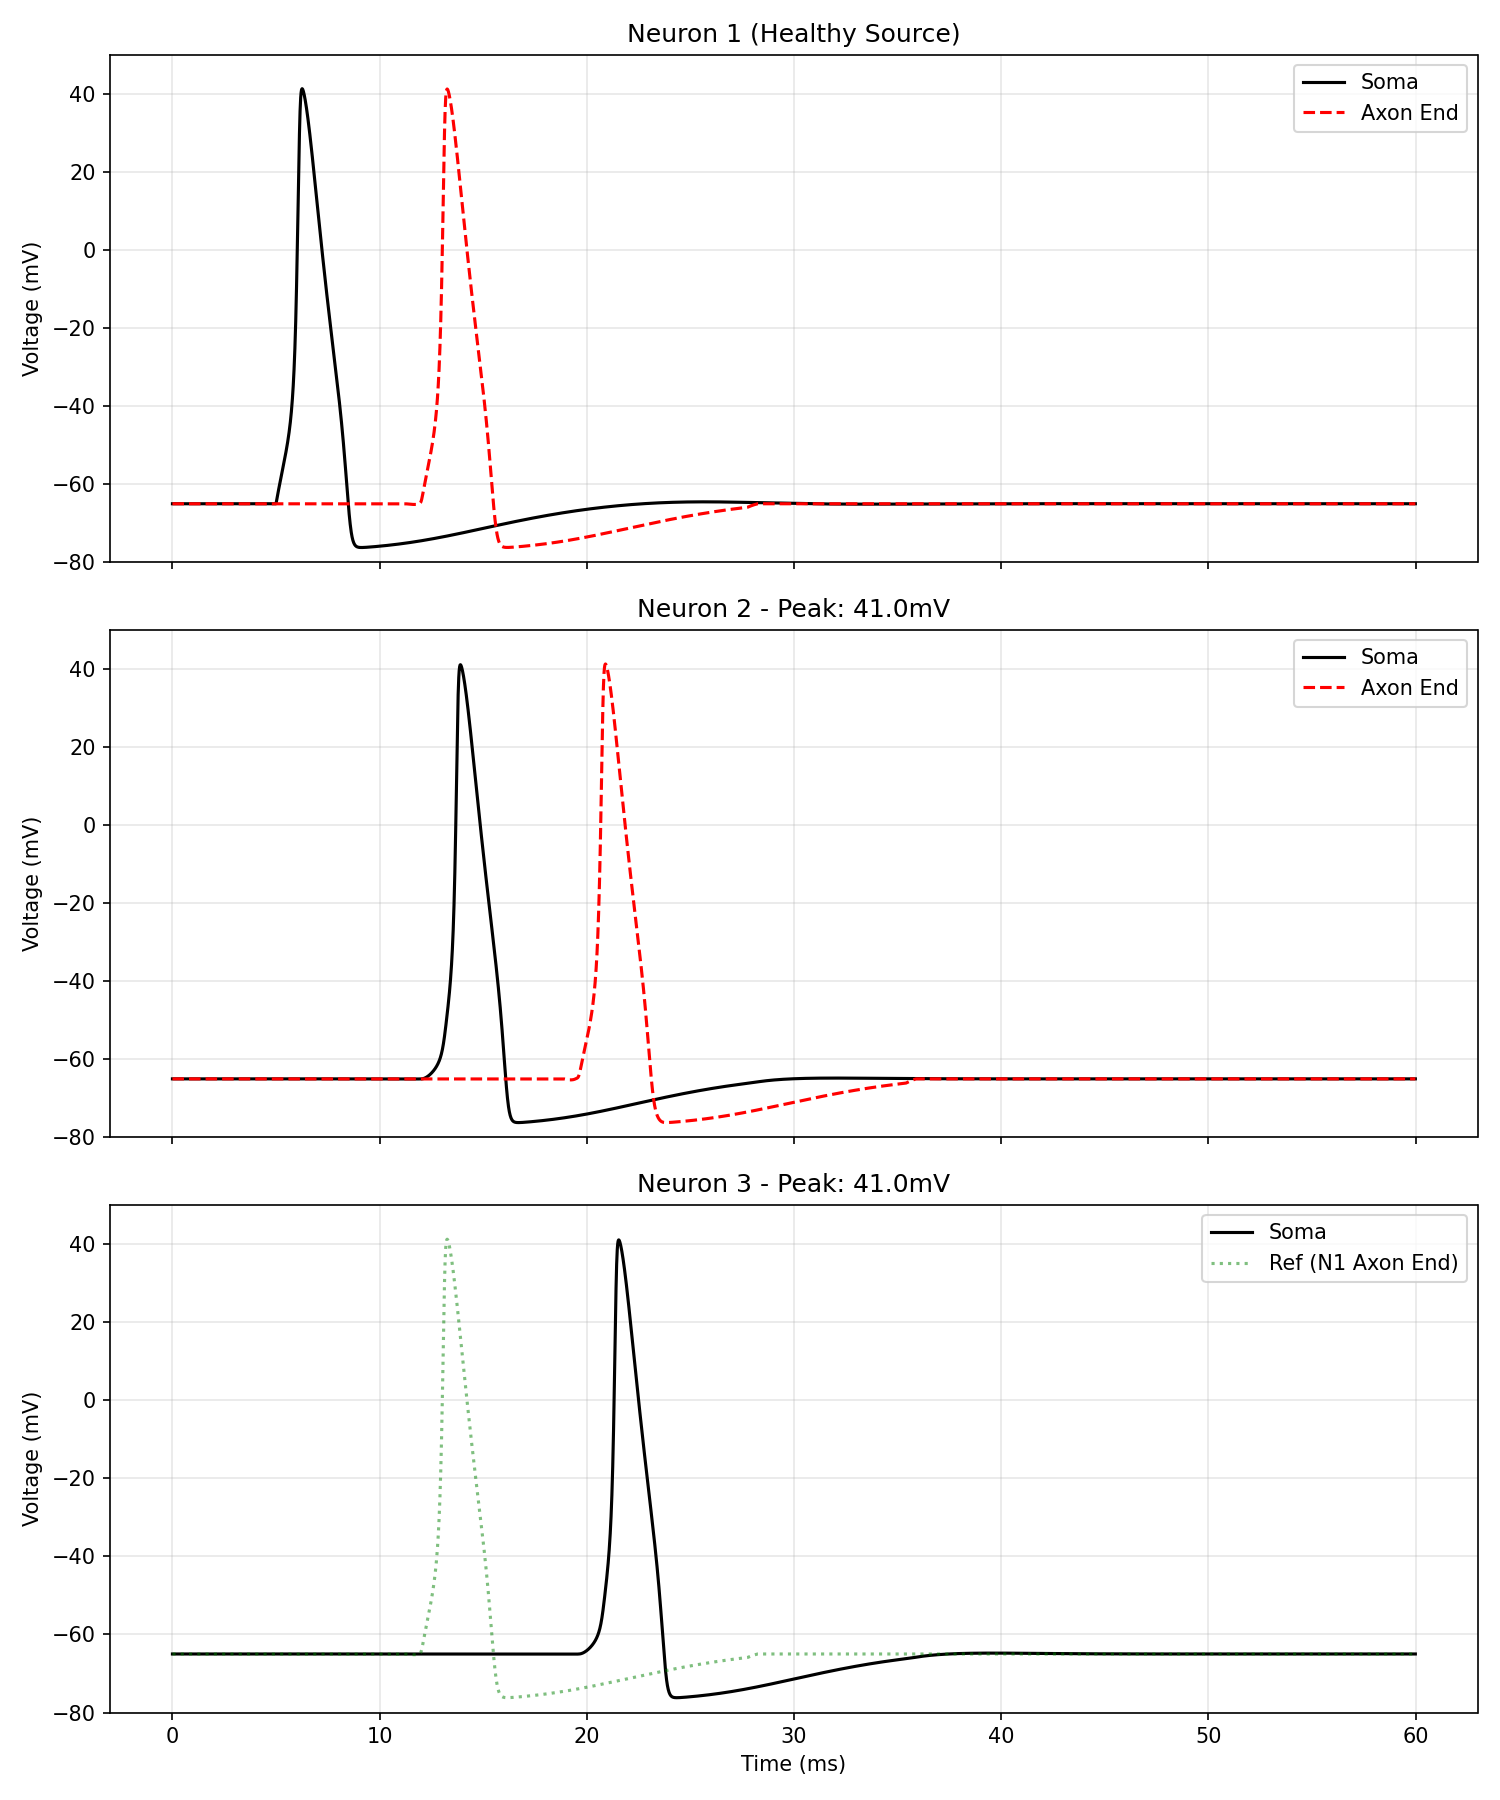
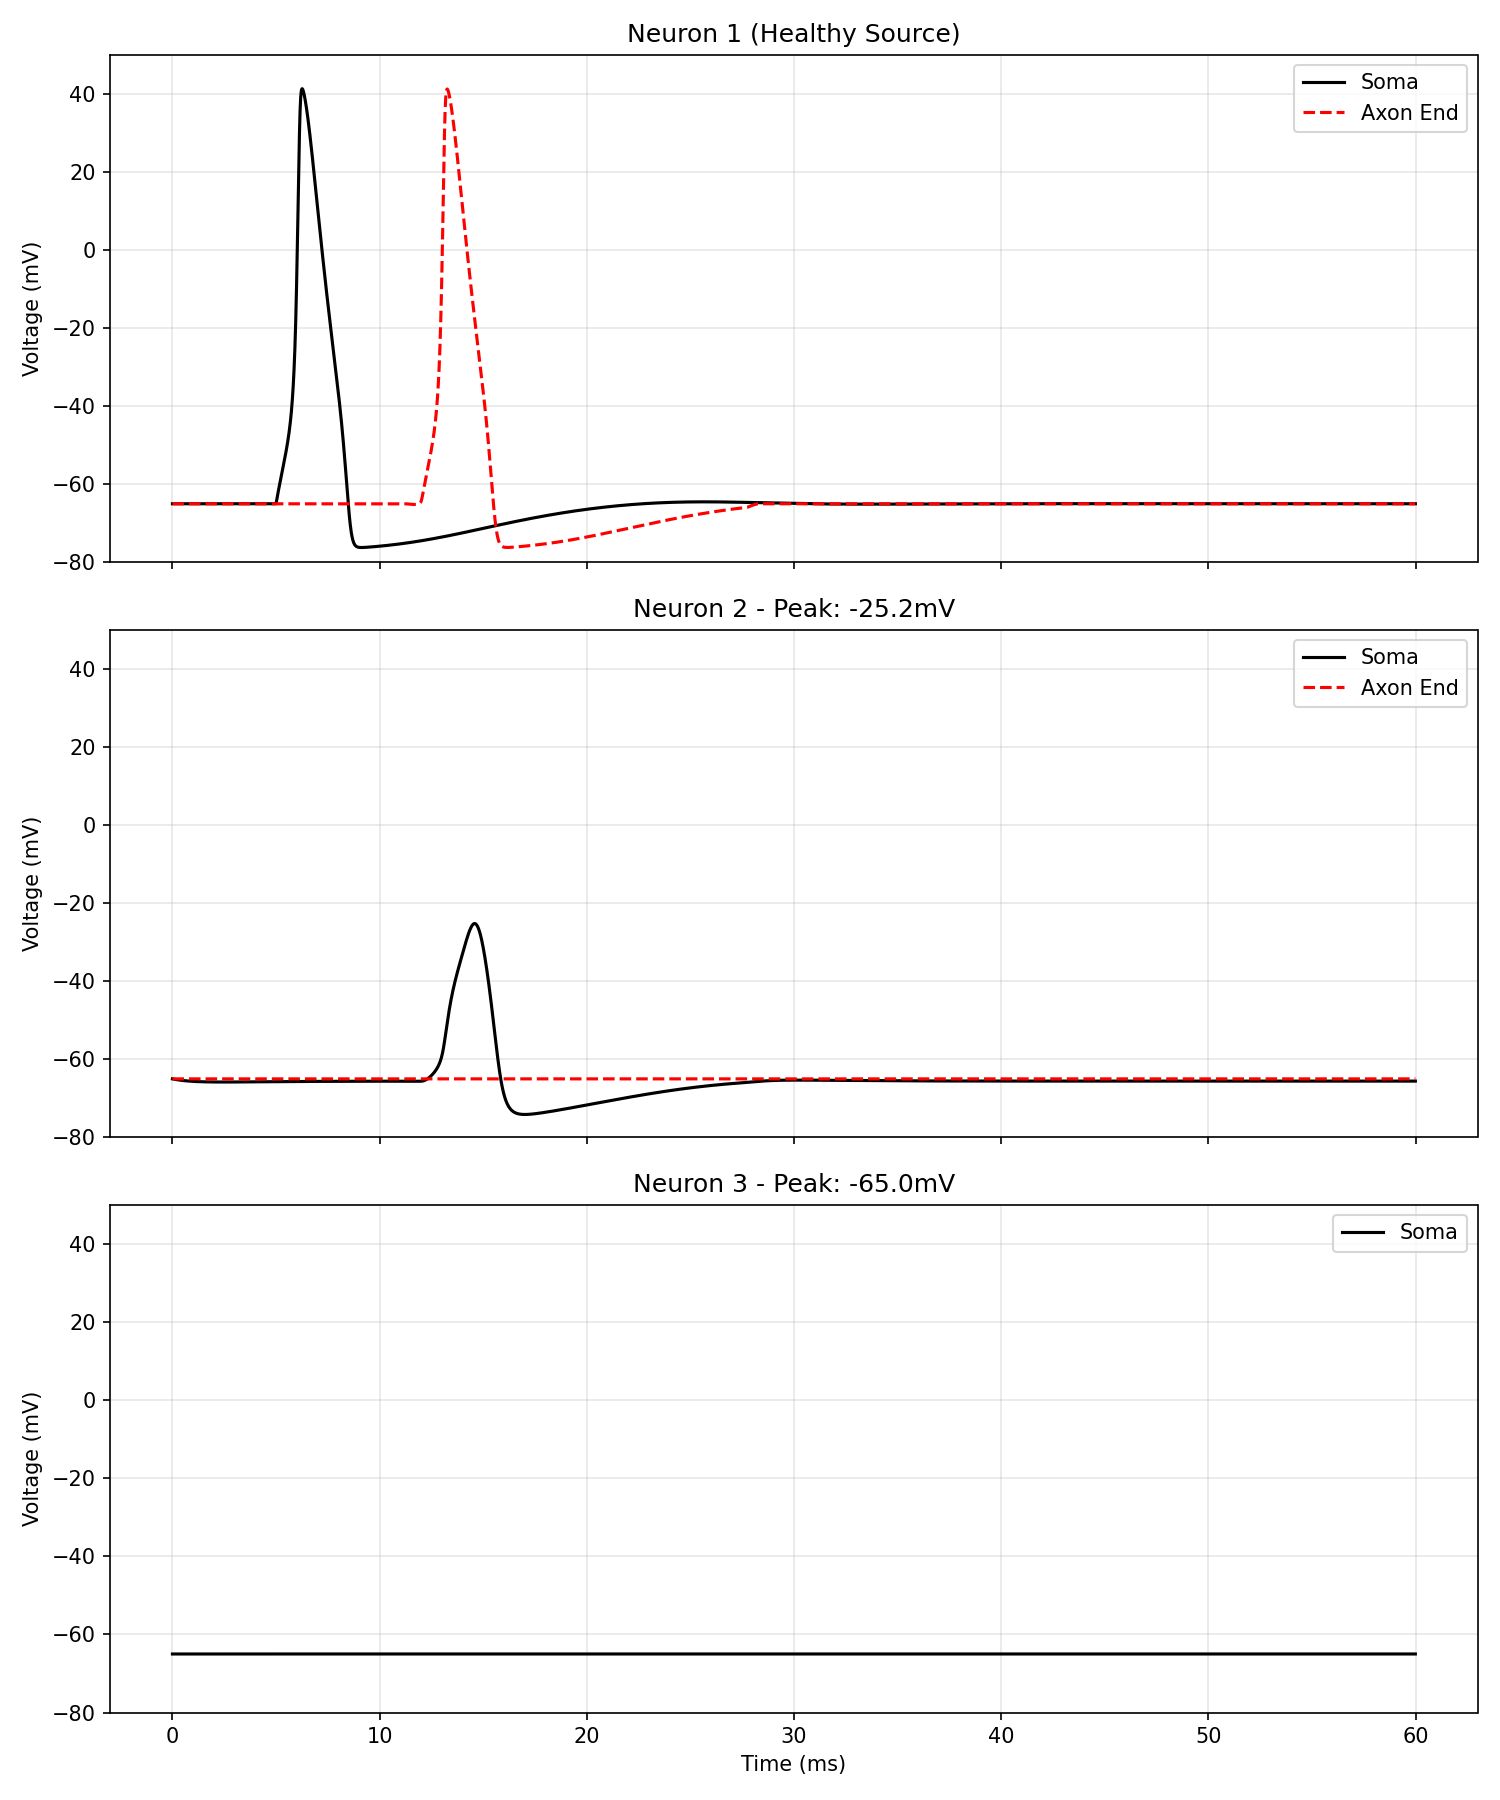
feat: Broaden spike generation conductance ranges, increase protocol C samples, and update associated analysis plots and demo script.

diff --git a/demo_chain.py b/demo_chain.py
@@ -9,11 +9,6 @@ from event_model import EventPropagator
 from physics import HHPhysics
 from simulation import DT_MS, run_simulation
 
-# =============================================================================
-# Coupled Simulation (The New Physics)
-# =============================================================================
-
-
 def run_coupled_simulation(
     t_end_ms: float,
     v_pre_trace: np.ndarray,
@@ -102,7 +97,7 @@ def run_external_simulation(t_end_ms, stim_start=10.0, stim_amp=30.0):
 
 # =============================================================================
 # Main Demo
-# =============================================================================
+# ============================================================================= 
 
 
 def main():
@@ -127,9 +122,8 @@ def main():
     res1 = prop.simulate(v_soma1, t_ms)
     v_axon1 = res1["v_out"]
     print(v_axon1, len(v_axon1))
-    # Neuron 2: The Victim (Sick)
+    # Neuron 2: 
     print("[N2] Receiving input from Axon 1...")
-    # Reduced Sodium (60%) -> Harder to fire, smaller spike
     _, v_soma2 = run_coupled_simulation(
         t_end, v_pre_trace=v_axon1, coupling_conductance=G_COUPLE, g_na_scale=1.0
     )
@@ -138,10 +132,9 @@ def main():
     v_axon2 = res2["v_out"]
     print(v_axon2, len(v_axon1))
 
-    # Neuron 3: The Recovery (Healthy)
-    #
+    # Neuron 3: The Recovery 
+    
     print("[N3] Receiving input from Axon 2...")
-    # Normal Sodium -> Should recover full height IF the input is strong enough
     _, v_soma3 = run_coupled_simulation(
         t_end, v_pre_trace=v_axon2, coupling_conductance=G_COUPLE, g_na_scale=1.0
     )
@@ -164,9 +157,6 @@ def main():
 
     # Plot N3
     axes[2].plot(t_ms, v_soma3, "k", label="Soma")
-    axes[2].plot(
-        t_ms, v_axon1, "g:", alpha=0.5, label="Ref (N1 Axon End)"
-    )  # Show timing ref
     axes[2].set_title(f"Neuron 3 - Peak: {np.max(v_soma3):.1f}mV")
     axes[2].legend(loc="upper right")
 

diff --git a/ssds_model.py b/ssds_model.py
@@ -184,8 +184,8 @@ def generate_protocol_c(n_samples: int = 1000, seed: int = 42) -> list[dict]:
     spikes = []
 
     for _ in range(n_samples):
-        g_na_scale = np.random.uniform(0.85, 1.15)
-        g_k_scale = np.random.uniform(0.85, 1.15)
+        g_na_scale = np.random.uniform(0.5, 2)
+        g_k_scale = np.random.uniform(0.5, 2)
 
         result = _simulate_and_harvest(
             [5.0],  # Single pulse
@@ -786,7 +786,7 @@ def main():
 
     spikes_a = generate_protocol_a()
     spikes_b = generate_protocol_b()
-    spikes_c = generate_protocol_c(n_samples=300)
+    spikes_c = generate_protocol_c(n_samples=1000)
     spikes_d = generate_protocol_d(n_samples=50)
 
     all_spikes = spikes_a + spikes_b + spikes_c + spikes_d
